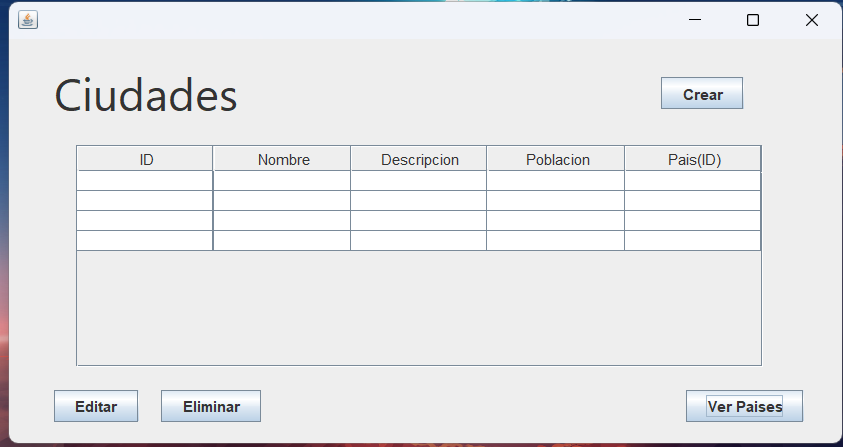
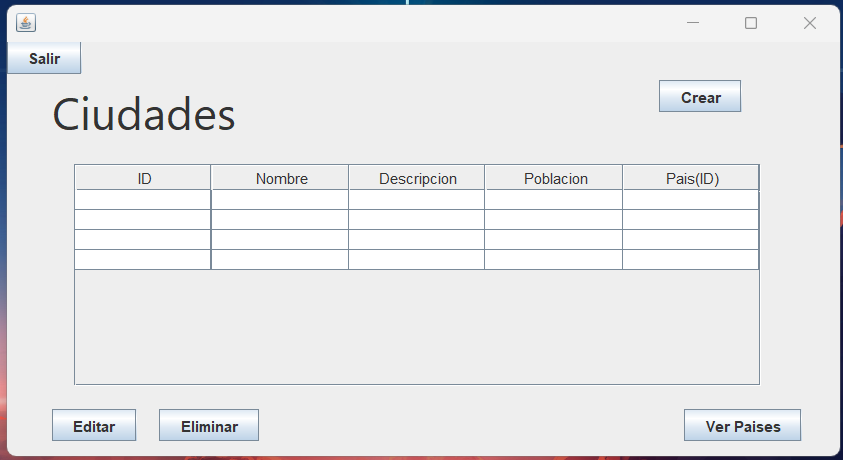
Se arregla interfaz

diff --git a/src/main/java/com/mycompany/crudjavaswingfjco/FrmCiudades.java b/src/main/java/com/mycompany/crudjavaswingfjco/FrmCiudades.java
@@ -15,6 +15,7 @@ public class FrmCiudades extends javax.swing.JFrame {
      */
     public FrmCiudades() {
         initComponents();
+        this.setLocationRelativeTo(null);
     }
 
     /**
@@ -35,9 +36,15 @@ public class FrmCiudades extends javax.swing.JFrame {
         comboPais = new javax.swing.JComboBox<>();
         btnGuardar = new javax.swing.JButton();
         btnCancelar = new javax.swing.JButton();
-        btnAgregarPais = new javax.swing.JButton();
         jScrollPane1 = new javax.swing.JScrollPane();
         txtDescipcion = new javax.swing.JTextArea();
+
+        setResizable(false);
+        addWindowListener(new java.awt.event.WindowAdapter() {
+            public void windowClosing(java.awt.event.WindowEvent evt) {
+                formWindowClosing(evt);
+            }
+        });
 
         jLabel1.setFont(new java.awt.Font("Segoe UI", 0, 18)); // NOI18N
         jLabel1.setText("Nombre");
@@ -60,11 +67,9 @@ public class FrmCiudades extends javax.swing.JFrame {
         btnGuardar.setText("Guardar");
 
         btnCancelar.setText("Cancelar");
-
-        btnAgregarPais.setText("Agregar Pais");
-        btnAgregarPais.addActionListener(new java.awt.event.ActionListener() {
+        btnCancelar.addActionListener(new java.awt.event.ActionListener() {
             public void actionPerformed(java.awt.event.ActionEvent evt) {
-                btnAgregarPaisActionPerformed(evt);
+                btnCancelarActionPerformed(evt);
             }
         });
 
@@ -87,9 +92,7 @@ public class FrmCiudades extends javax.swing.JFrame {
                     .addGroup(layout.createSequentialGroup()
                         .addComponent(jLabel4, javax.swing.GroupLayout.PREFERRED_SIZE, 37, javax.swing.GroupLayout.PREFERRED_SIZE)
                         .addGap(74, 74, 74)
-                        .addComponent(comboPais, javax.swing.GroupLayout.PREFERRED_SIZE, 160, javax.swing.GroupLayout.PREFERRED_SIZE)
-                        .addPreferredGap(javax.swing.LayoutStyle.ComponentPlacement.UNRELATED)
-                        .addComponent(btnAgregarPais))
+                        .addComponent(comboPais, javax.swing.GroupLayout.PREFERRED_SIZE, 160, javax.swing.GroupLayout.PREFERRED_SIZE))
                     .addGroup(layout.createSequentialGroup()
                         .addComponent(btnGuardar)
                         .addGap(35, 35, 35)
@@ -124,8 +127,7 @@ public class FrmCiudades extends javax.swing.JFrame {
                 .addGap(26, 26, 26)
                 .addGroup(layout.createParallelGroup(javax.swing.GroupLayout.Alignment.BASELINE)
                     .addComponent(jLabel4)
-                    .addComponent(comboPais, javax.swing.GroupLayout.PREFERRED_SIZE, javax.swing.GroupLayout.DEFAULT_SIZE, javax.swing.GroupLayout.PREFERRED_SIZE)
-                    .addComponent(btnAgregarPais))
+                    .addComponent(comboPais, javax.swing.GroupLayout.PREFERRED_SIZE, javax.swing.GroupLayout.DEFAULT_SIZE, javax.swing.GroupLayout.PREFERRED_SIZE))
                 .addGap(29, 29, 29)
                 .addGroup(layout.createParallelGroup(javax.swing.GroupLayout.Alignment.BASELINE)
                     .addComponent(btnGuardar)
@@ -136,10 +138,16 @@ public class FrmCiudades extends javax.swing.JFrame {
         pack();
     }// </editor-fold>//GEN-END:initComponents
 
-    private void btnAgregarPaisActionPerformed(java.awt.event.ActionEvent evt) {//GEN-FIRST:event_btnAgregarPaisActionPerformed
-        FrmPaises pais = new FrmPaises();
-        pais.setVisible(true);
-    }//GEN-LAST:event_btnAgregarPaisActionPerformed
+    private void btnCancelarActionPerformed(java.awt.event.ActionEvent evt) {//GEN-FIRST:event_btnCancelarActionPerformed
+         FrmInicio inicio = new FrmInicio();
+        inicio.setVisible(true);
+         this.setVisible(false);
+    }//GEN-LAST:event_btnCancelarActionPerformed
+
+    private void formWindowClosing(java.awt.event.WindowEvent evt) {//GEN-FIRST:event_formWindowClosing
+         FrmInicio inicio = new FrmInicio();
+        inicio.setVisible(true);
+    }//GEN-LAST:event_formWindowClosing
 
     /**
      * @param args the command line arguments
@@ -177,7 +185,6 @@ public class FrmCiudades extends javax.swing.JFrame {
     }
 
     // Variables declaration - do not modify//GEN-BEGIN:variables
-    private javax.swing.JButton btnAgregarPais;
     private javax.swing.JButton btnCancelar;
     private javax.swing.JButton btnGuardar;
     private javax.swing.JComboBox<String> comboPais;

diff --git a/src/main/java/com/mycompany/crudjavaswingfjco/FrmInicio.java b/src/main/java/com/mycompany/crudjavaswingfjco/FrmInicio.java
@@ -15,6 +15,7 @@ public class FrmInicio extends javax.swing.JFrame {
      */
     public FrmInicio() {
         initComponents();
+        this.setLocationRelativeTo(null);
     }
 
     /**
@@ -33,8 +34,11 @@ public class FrmInicio extends javax.swing.JFrame {
         btnEditar = new javax.swing.JButton();
         btnEliminar = new javax.swing.JButton();
         btnVerPaises = new javax.swing.JButton();
+        btnSalir = new javax.swing.JButton();
 
         setDefaultCloseOperation(javax.swing.WindowConstants.EXIT_ON_CLOSE);
+        setLocation(new java.awt.Point(0, 0));
+        setResizable(false);
 
         jTable1.setFont(new java.awt.Font("Segoe UI", 0, 14)); // NOI18N
         jTable1.setModel(new javax.swing.table.DefaultTableModel(
@@ -79,6 +83,13 @@ public class FrmInicio extends javax.swing.JFrame {
             }
         });
 
+        btnSalir.setText("Salir");
+        btnSalir.addActionListener(new java.awt.event.ActionListener() {
+            public void actionPerformed(java.awt.event.ActionEvent evt) {
+                btnSalirActionPerformed(evt);
+            }
+        });
+
         javax.swing.GroupLayout layout = new javax.swing.GroupLayout(getContentPane());
         getContentPane().setLayout(layout);
         layout.setHorizontalGroup(
@@ -102,13 +113,17 @@ public class FrmInicio extends javax.swing.JFrame {
                         .addGap(54, 54, 54)
                         .addComponent(jScrollPane1, javax.swing.GroupLayout.PREFERRED_SIZE, 550, javax.swing.GroupLayout.PREFERRED_SIZE)))
                 .addGap(31, 31, 31))
+            .addGroup(layout.createSequentialGroup()
+                .addComponent(btnSalir)
+                .addContainerGap(javax.swing.GroupLayout.DEFAULT_SIZE, Short.MAX_VALUE))
         );
         layout.setVerticalGroup(
             layout.createParallelGroup(javax.swing.GroupLayout.Alignment.LEADING)
             .addGroup(layout.createSequentialGroup()
                 .addGroup(layout.createParallelGroup(javax.swing.GroupLayout.Alignment.LEADING)
                     .addGroup(layout.createSequentialGroup()
-                        .addGap(19, 19, 19)
+                        .addComponent(btnSalir)
+                        .addPreferredGap(javax.swing.LayoutStyle.ComponentPlacement.RELATED)
                         .addComponent(jLabel1))
                     .addGroup(layout.createSequentialGroup()
                         .addGap(31, 31, 31)
@@ -120,7 +135,7 @@ public class FrmInicio extends javax.swing.JFrame {
                     .addComponent(btnEditar)
                     .addComponent(btnEliminar)
                     .addComponent(btnVerPaises))
-                .addContainerGap(17, Short.MAX_VALUE))
+                .addContainerGap(7, Short.MAX_VALUE))
         );
 
         pack();
@@ -129,12 +144,18 @@ public class FrmInicio extends javax.swing.JFrame {
     private void btnCrearActionPerformed(java.awt.event.ActionEvent evt) {//GEN-FIRST:event_btnCrearActionPerformed
         FrmCiudades ciudad = new FrmCiudades();
         ciudad.setVisible(true);
+        this.setVisible(false);
     }//GEN-LAST:event_btnCrearActionPerformed
 
     private void btnVerPaisesActionPerformed(java.awt.event.ActionEvent evt) {//GEN-FIRST:event_btnVerPaisesActionPerformed
         FrmVerPaises pais = new FrmVerPaises();
         pais.setVisible(true);
+        this.setVisible(false);
     }//GEN-LAST:event_btnVerPaisesActionPerformed
+
+    private void btnSalirActionPerformed(java.awt.event.ActionEvent evt) {//GEN-FIRST:event_btnSalirActionPerformed
+        this.setVisible(false);
+    }//GEN-LAST:event_btnSalirActionPerformed
 
     /**
      * @param args the command line arguments
@@ -175,6 +196,7 @@ public class FrmInicio extends javax.swing.JFrame {
     private javax.swing.JButton btnCrear;
     private javax.swing.JButton btnEditar;
     private javax.swing.JButton btnEliminar;
+    private javax.swing.JButton btnSalir;
     private javax.swing.JButton btnVerPaises;
     private javax.swing.JLabel jLabel1;
     private javax.swing.JScrollPane jScrollPane1;

diff --git a/src/main/java/com/mycompany/crudjavaswingfjco/FrmVerPaises.java b/src/main/java/com/mycompany/crudjavaswingfjco/FrmVerPaises.java
@@ -15,6 +15,7 @@ public class FrmVerPaises extends javax.swing.JFrame {
      */
     public FrmVerPaises() {
         initComponents();
+        this.setLocationRelativeTo(null);
     }
 
     /**
@@ -32,6 +33,14 @@ public class FrmVerPaises extends javax.swing.JFrame {
         btnCrear = new javax.swing.JButton();
         btnEditar = new javax.swing.JButton();
         btnEliminar = new javax.swing.JButton();
+        btnRegresar = new javax.swing.JButton();
+
+        setResizable(false);
+        addWindowListener(new java.awt.event.WindowAdapter() {
+            public void windowClosing(java.awt.event.WindowEvent evt) {
+                formWindowClosing(evt);
+            }
+        });
 
         jTable1.setFont(new java.awt.Font("Segoe UI", 0, 14)); // NOI18N
         jTable1.setModel(new javax.swing.table.DefaultTableModel(
@@ -69,11 +78,21 @@ public class FrmVerPaises extends javax.swing.JFrame {
 
         btnEliminar.setText("Eliminar");
 
+        btnRegresar.setText("Regresar");
+        btnRegresar.addActionListener(new java.awt.event.ActionListener() {
+            public void actionPerformed(java.awt.event.ActionEvent evt) {
+                btnRegresarActionPerformed(evt);
+            }
+        });
+
         javax.swing.GroupLayout layout = new javax.swing.GroupLayout(getContentPane());
         getContentPane().setLayout(layout);
         layout.setHorizontalGroup(
             layout.createParallelGroup(javax.swing.GroupLayout.Alignment.LEADING)
-            .addGap(0, 653, Short.MAX_VALUE)
+            .addGroup(javax.swing.GroupLayout.Alignment.TRAILING, layout.createSequentialGroup()
+                .addContainerGap(528, Short.MAX_VALUE)
+                .addComponent(btnRegresar)
+                .addGap(49, 49, 49))
             .addGroup(layout.createParallelGroup(javax.swing.GroupLayout.Alignment.LEADING)
                 .addGroup(layout.createSequentialGroup()
                     .addGap(42, 42, 42)
@@ -93,7 +112,10 @@ public class FrmVerPaises extends javax.swing.JFrame {
         );
         layout.setVerticalGroup(
             layout.createParallelGroup(javax.swing.GroupLayout.Alignment.LEADING)
-            .addGap(0, 321, Short.MAX_VALUE)
+            .addGroup(javax.swing.GroupLayout.Alignment.TRAILING, layout.createSequentialGroup()
+                .addContainerGap(280, Short.MAX_VALUE)
+                .addComponent(btnRegresar)
+                .addGap(18, 18, 18))
             .addGroup(layout.createParallelGroup(javax.swing.GroupLayout.Alignment.LEADING)
                 .addGroup(layout.createSequentialGroup()
                     .addGap(18, 18, 18)
@@ -117,7 +139,19 @@ public class FrmVerPaises extends javax.swing.JFrame {
     private void btnCrearActionPerformed(java.awt.event.ActionEvent evt) {//GEN-FIRST:event_btnCrearActionPerformed
        FrmPaises pais = new FrmPaises();
        pais.setVisible(true);
+       this.setVisible(false);
     }//GEN-LAST:event_btnCrearActionPerformed
+
+    private void btnRegresarActionPerformed(java.awt.event.ActionEvent evt) {//GEN-FIRST:event_btnRegresarActionPerformed
+        FrmInicio inicio = new FrmInicio();
+        inicio.setVisible(true);
+        this.setVisible(false);
+    }//GEN-LAST:event_btnRegresarActionPerformed
+
+    private void formWindowClosing(java.awt.event.WindowEvent evt) {//GEN-FIRST:event_formWindowClosing
+        FrmInicio inicio = new FrmInicio();
+        inicio.setVisible(true);
+    }//GEN-LAST:event_formWindowClosing
 
     /**
      * @param args the command line arguments
@@ -158,6 +192,7 @@ public class FrmVerPaises extends javax.swing.JFrame {
     private javax.swing.JButton btnCrear;
     private javax.swing.JButton btnEditar;
     private javax.swing.JButton btnEliminar;
+    private javax.swing.JButton btnRegresar;
     private javax.swing.JLabel jLabel1;
     private javax.swing.JScrollPane jScrollPane1;
     private javax.swing.JTable jTable1;

diff --git a/src/main/java/com/mycompany/crudjavaswingfjco/FrmPaises.java b/src/main/java/com/mycompany/crudjavaswingfjco/FrmPaises.java
@@ -15,6 +15,7 @@ public class FrmPaises extends javax.swing.JFrame {
      */
     public FrmPaises() {
         initComponents();
+        this.setLocationRelativeTo(null);
     }
 
     /**
@@ -36,9 +37,21 @@ public class FrmPaises extends javax.swing.JFrame {
         txtNombre = new javax.swing.JTextField();
         txtContinente = new javax.swing.JTextField();
 
+        setResizable(false);
+        addWindowListener(new java.awt.event.WindowAdapter() {
+            public void windowClosing(java.awt.event.WindowEvent evt) {
+                formWindowClosing(evt);
+            }
+        });
+
         btnGuardar.setText("Guardar");
 
         btnCancelar.setText("Cancelar");
+        btnCancelar.addActionListener(new java.awt.event.ActionListener() {
+            public void actionPerformed(java.awt.event.ActionEvent evt) {
+                btnCancelarActionPerformed(evt);
+            }
+        });
 
         txtDescripcion.setColumns(20);
         txtDescripcion.setFont(new java.awt.Font("Segoe UI", 0, 14)); // NOI18N
@@ -109,6 +122,17 @@ public class FrmPaises extends javax.swing.JFrame {
 
         pack();
     }// </editor-fold>//GEN-END:initComponents
+
+    private void btnCancelarActionPerformed(java.awt.event.ActionEvent evt) {//GEN-FIRST:event_btnCancelarActionPerformed
+        FrmVerPaises pais = new FrmVerPaises();
+        pais.setVisible(true);
+        this.setVisible(false);
+    }//GEN-LAST:event_btnCancelarActionPerformed
+
+    private void formWindowClosing(java.awt.event.WindowEvent evt) {//GEN-FIRST:event_formWindowClosing
+        FrmVerPaises pais = new FrmVerPaises();
+        pais.setVisible(true);
+    }//GEN-LAST:event_formWindowClosing
 
     /**
      * @param args the command line arguments
